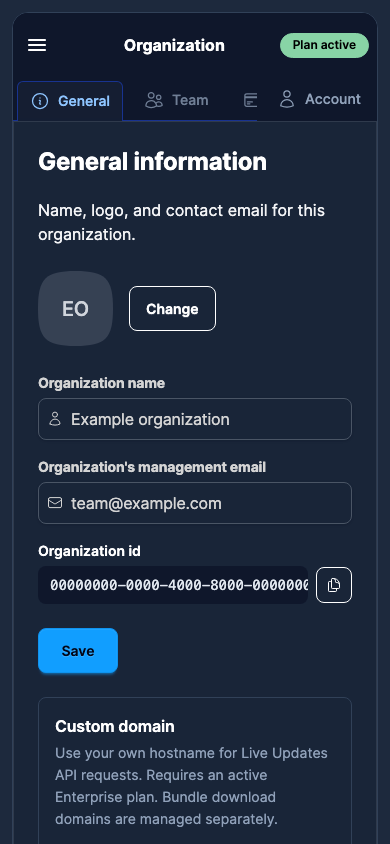
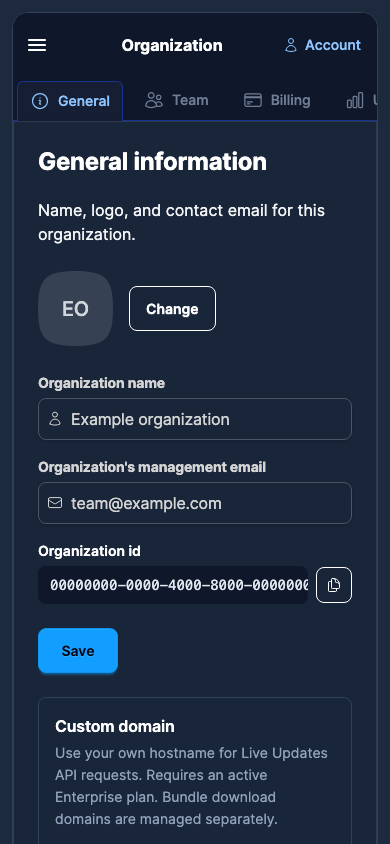
fix(settings): give mobile tabs the full navigation width

Changed region(s): [[0.6462, 0.0308, 0.9538, 0.154], [0.3077, 0.0308, 0.5846, 0.0616]]

diff --git a/src/components/Navbar.vue b/src/components/Navbar.vue
@@ -2,6 +2,8 @@
 import { computed } from 'vue'
 import { useI18n } from 'vue-i18n'
 import { useRoute } from 'vue-router'
+import IconBuilding from '~icons/heroicons/building-office'
+import IconUser from '~icons/heroicons/user'
 import IconPanelLeft from '~icons/lucide/panel-left'
 import IconMenu from '~icons/material-symbols/menu-rounded'
 import { useDisplayStore } from '~/stores/display'
@@ -23,6 +25,14 @@ const displayStore = useDisplayStore()
 const { t } = useI18n()
 const showNavTitle = computed(() => displayStore.NavTitle && displayStore.pathTitle.length === 0)
 const route = useRoute()
+const settingsLink = computed(() => {
+  const path = route.path
+  if (path.startsWith('/settings/account'))
+    return { to: '/settings/organization', label: 'organization', icon: IconBuilding }
+  if (path.startsWith('/settings/organization') || path === '/billing' || path.startsWith('/billing/'))
+    return { to: '/settings/account', label: 'account', icon: IconUser }
+  return null
+})
 // Settings sub-pages have a parent crumb ("Organization") plus their own title
 // ("Members"). Render that title as the current crumb instead of a dangling "/".
 // Scoped to settings, where every page sets NavTitle, so a stale title never leaks.
@@ -118,7 +128,7 @@ const mobileTitle = computed(() => {
         </div>
 
         <!-- Centered title on mobile -->
-        <div class="flex-1 px-4 text-center lg:hidden">
+        <div class="min-w-0 flex-1 px-2 text-center lg:hidden">
           <div class="font-bold truncate dark:text-white first-letter:uppercase">
             {{ mobileTitle }}
           </div>
@@ -129,9 +139,18 @@ const mobileTitle = computed(() => {
           <Banner desktop />
         </div>
 
-        <!-- Mobile banner in navbar -->
-        <div class="lg:hidden">
-          <Banner desktop />
+        <!-- Keep the settings shortcut out of the scrollable mobile tab row. -->
+        <div class="shrink-0 lg:hidden">
+          <RouterLink
+            v-if="settingsLink"
+            :to="settingsLink.to"
+            class="inline-flex items-center gap-1.5 min-h-11 px-2 text-sm font-medium rounded-md text-blue-600 hover:bg-blue-100/70 dark:text-blue-300 dark:hover:bg-slate-800 focus-visible:outline-none focus-visible:ring-2 focus-visible:ring-blue-500"
+            data-test="settings-switch-section"
+          >
+            <component :is="settingsLink.icon" class="w-4 h-4" aria-hidden="true" />
+            {{ t(settingsLink.label) }}
+          </RouterLink>
+          <Banner v-else desktop />
         </div>
       </div>
     </div>

diff --git a/src/layouts/settings.vue b/src/layouts/settings.vue
@@ -11,6 +11,7 @@ import IconBilling from '~icons/mingcute/bill-fill'
 import FailedCard from '~/components/FailedCard.vue'
 import RbacPermissionOnlyModal from '~/components/RbacPermissionOnlyModal.vue'
 import Tabs from '~/components/Tabs.vue'
+import { isNativeChromeEnabled } from '~/composables/useNativeChrome'
 import { accountTabs } from '~/constants/accountTabs'
 import { organizationTabs as baseOrgTabs } from '~/constants/organizationTabs'
 import { stripeEnabled } from '~/services/console'
@@ -245,7 +246,8 @@ function handleSecondary(val: string) {
       />
       <RouterLink
         :to="isOrganizationSettings ? '/settings/account' : '/settings/organization'"
-        class="inline-flex shrink-0 items-center gap-2 min-h-[38px] px-3 mt-1 mr-1 text-sm font-medium rounded-md text-slate-500 hover:text-blue-600 hover:bg-blue-100/70 dark:text-slate-400 dark:hover:text-blue-300 dark:hover:bg-slate-800 focus-visible:outline-none focus-visible:ring-2 focus-visible:ring-blue-500"
+        class="shrink-0 items-center gap-2 min-h-[38px] px-3 mt-1 mr-1 text-sm font-medium rounded-md text-slate-500 hover:text-blue-600 hover:bg-blue-100/70 dark:text-slate-400 dark:hover:text-blue-300 dark:hover:bg-slate-800 focus-visible:outline-none focus-visible:ring-2 focus-visible:ring-blue-500"
+        :class="isNativeChromeEnabled ? 'inline-flex' : 'hidden lg:inline-flex'"
         data-test="settings-switch-section"
       >
         <component :is="isOrganizationSettings ? IconUser : IconBuilding" class="w-5 h-5" aria-hidden="true" />

diff --git a/docs/screenshots/settings-navigation/README.md b/docs/screenshots/settings-navigation/README.md
@@ -1,7 +1,10 @@
 # Separate account and organization settings
 
 The shared Account / Organization tab row is removed. Each section now starts
-with its own tabs, with a link to the other section beside them. Existing URLs,
+with its own tabs, with a link to the other section beside them on desktop.
+On mobile web, the link sits beside the page title instead of the billing badge,
+leaving the full width for scrolling tabs. Other pages keep their billing badge.
+Native chrome keeps its existing in-content shortcut. Existing URLs,
 sidebar/profile entry points, and nested Team / Billing destinations are preserved.
 
 Screenshots use the real settings layout, general pages, sidebar and navbar,
